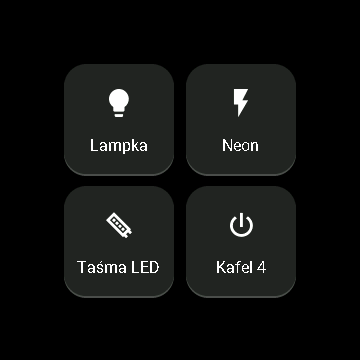
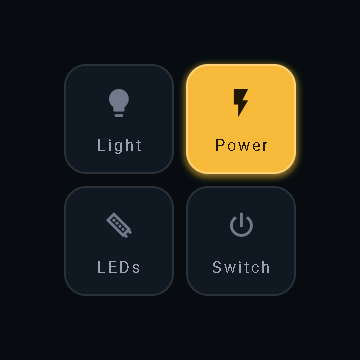
Docs: 2.1.6 changelog + refreshed control-tiles screenshot

diff --git a/CHANGELOG.md b/CHANGELOG.md
@@ -3,6 +3,11 @@
 All notable changes to this project are documented here. The format is based on
 [Keep a Changelog](https://keepachangelog.com/en/1.1.0/).
 
+## [2.1.6] - 2026-06-18
+
+### Changed
+- Control tiles: the lit tile now has a soft amber glow, and tile names get a little letter spacing.
+
 ## [2.1.5] - 2026-06-18
 
 ### Changed